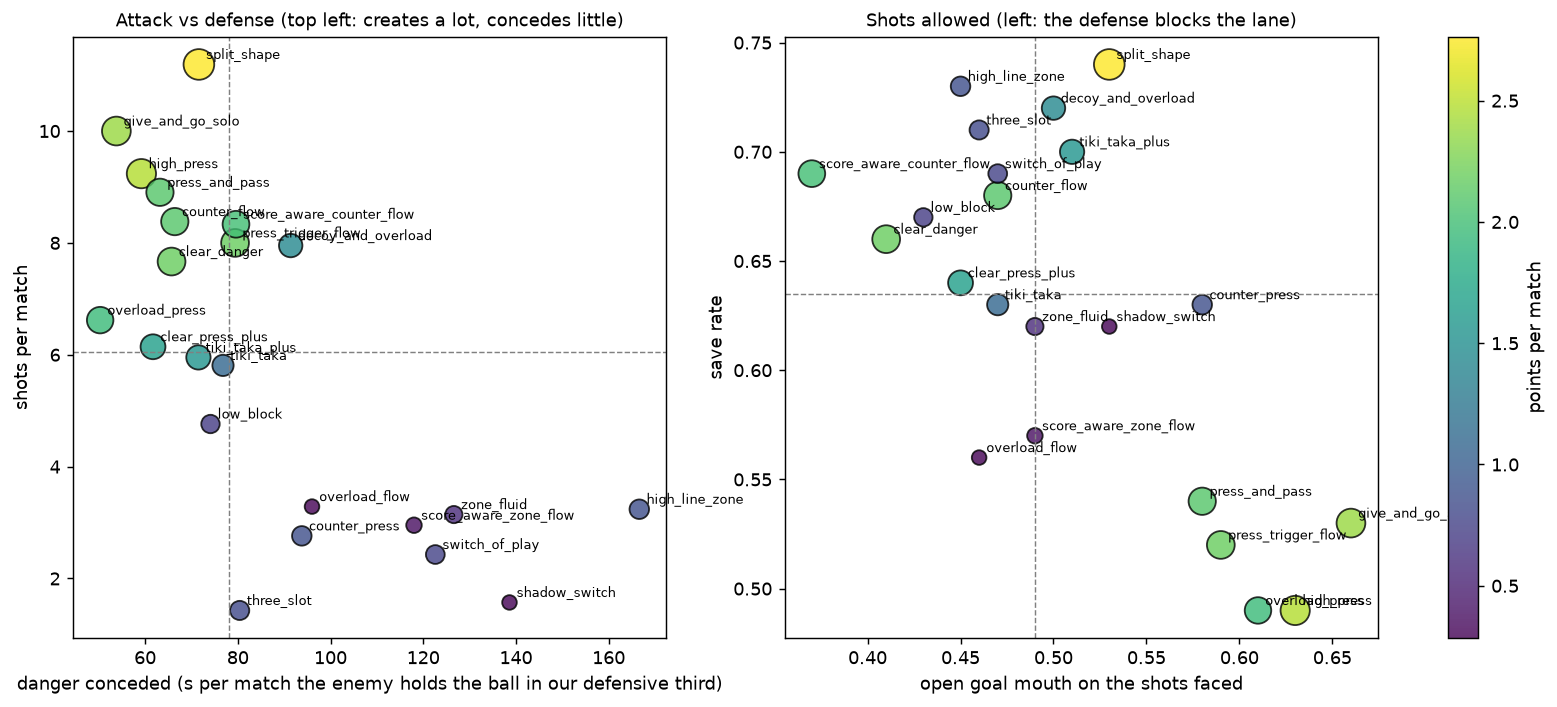
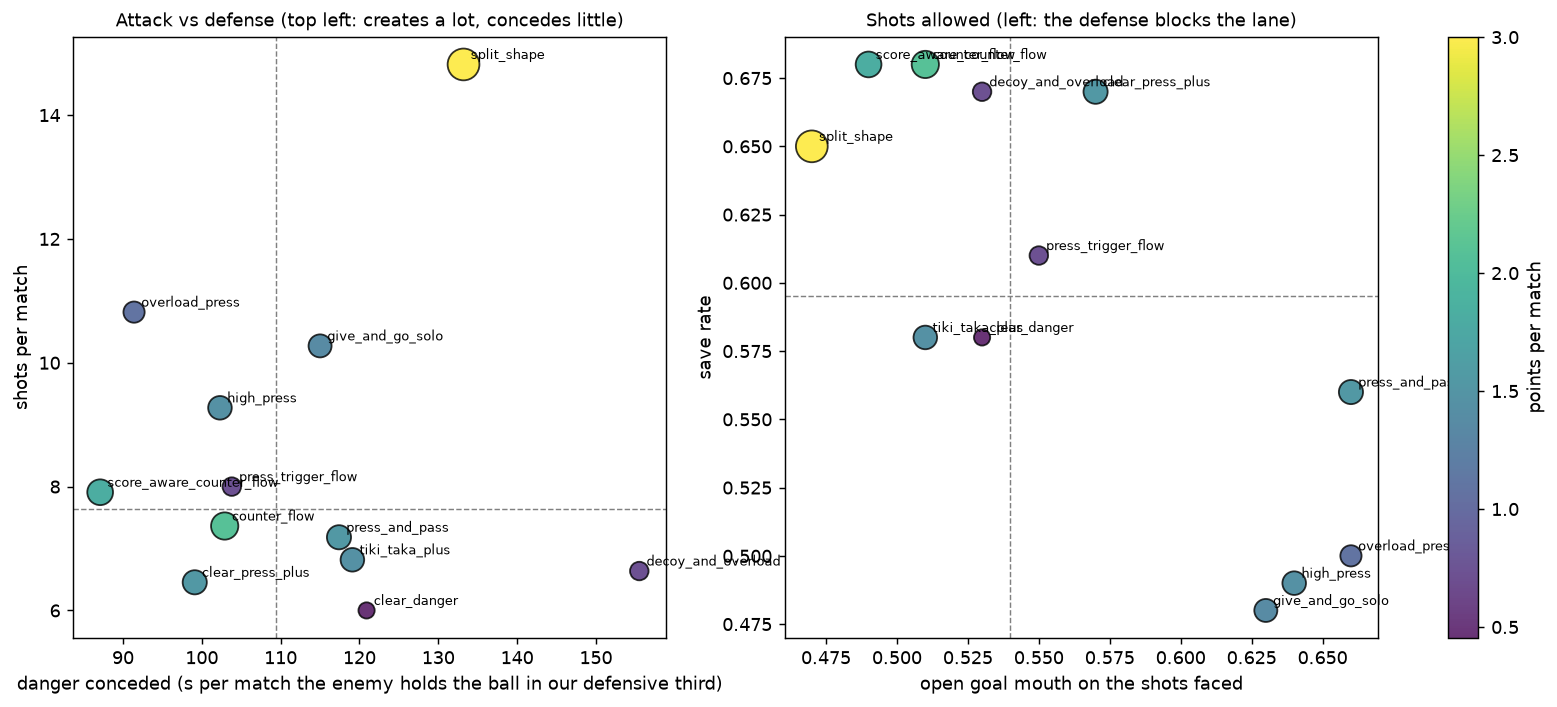
strategies.md, signal_report.md: the 2026-10-10 round-robin of the 12 kept strategies
Claude-Session: https://claude.ai/code/session_019xiBYH9evM56f9477FZGJ4

diff --git a/docs/signal_report.md b/docs/signal_report.md
@@ -3,8 +3,8 @@
 What each strategy does well and badly, from the signals in [`signals.md`](signals.md), drawn
 from one round-robin. Standings are in [`strategies.md`](strategies.md); this shows why.
 
-**Run:** `tournament_20261005_170958` (strategy-guard at `b26f5b37`, 22 configs, 231 matches of
-600 s). Regenerate the figures after a new full round-robin, then rewrite the notes:
+**Run:** `tournament_20261010_090819` (strategy-guard at `a17e2791`, the 12 non-retired configs,
+66 matches of 600 s). Regenerate the figures after a new full round-robin, then rewrite the notes:
 
     pixi run python tools/signal_report.py replays/tournament_<id>
 
@@ -16,71 +16,74 @@ away.
 ![Signals per strategy](img/signals/signal_heatmap.png)
 
 Rows by points per match (the number after each name). Each column is coloured by rank among the
-22 strategies, green where the value usually helps; passes are blue because more is neither
+12 strategies, green where the value usually helps; passes are blue because more is neither
 better nor worse. The printed number is the real value: per match, or a share.
 
-- **`split_shape` is green across attack**: most shots and entries, a shot after 28% of its
-  regains (2.0 s on average) and after 38% of its free kicks, 1.7 m gained per pass. It makes the
-  fewest passes (15) and creates the most.
-- **The next three win by pressing, not passing.** `high_press`, `give_and_go_solo` and
-  `press_and_pass` shoot often after regains, but `high_press` and `press_and_pass` gain under
-  0.5 m per pass, and all three face the most open shots and save about half. Their defense is
-  where they'd gain.
-- **`overload_press` passes the most (61) for the least progress (0.31 m)** and played in 5 of
-  the 10 stalled matches: a winning record with a bug in it.
-- **The bottom half rarely gets a shot.** `counter_press`, `switch_of_play`, `shadow_switch` and
-  `high_line_zone` turn 1–7% of regains into a shot, almost never a free kick, and shoot from
-  3 m. Their shots are open (63–68%) and convert well; they just don't get many.
-- **`three_slot` enters the final third 15 times a match and shoots 1.4 times**, and commits
-  22 out-of-bounds fouls: it gets there and kicks the ball out.
+- **`split_shape` is green across attack**: most shots (14.8) and entries (22.5), a shot after
+  20% of its regains (1.9 s on average) and after 59% of its free kicks, 1.74 m gained per pass
+  from the fewest passes (18). Its weak side is defense: 133 s a match of danger conceded, second
+  most, and the most real ball losses (63).
+- **`counter_flow` and `score_aware_counter_flow` win by conceding little**: the fewest goals
+  against (2.2) and the least danger (103 and 87 s), with few shots of their own.
+- **The pressers shoot a lot and still lose.** `high_press`, `give_and_go_solo` and
+  `overload_press` make 9–11 shots a match, but concede 4.3–4.6 goals: the shots they face are
+  open (63–66%) and they save half.
+- **`press_and_pass` passes for nothing**: 50 passes, 0.34 m gained each, 13% forward.
+- **`decoy_and_overload` gains ground passing (1.07 m, 36% forward) and concedes the most**:
+  5.0 goals and 156 s of danger a match.
+- **`clear_danger` is last with no red flag in defense**: it shoots least (6.0), from furthest
+  (2.7 m), at the least open goal (52%). It defends adequately and doesn't create.
 
 ## Attack against defense
 
 ![Attack vs defense](img/signals/attack_defense.png)
 
 Left: shots created against seconds the enemy holds the ball in the strategy's defensive third.
-Every strategy that wins is in the top left; the ones that lose sit below six shots, most of them
-also spending 90+ s a match defending. `high_line_zone` is the extreme: 167 s.
+Only `split_shape` creates far more than the rest; it does so while conceding more danger than
+most. `overload_press` creates 10.8 shots while conceding the second least danger (91 s), yet
+finishes ninth: its losses are in the right panel.
 
 Right: how open the shots a strategy faces are, against its save rate. Every strategy fields the
-same keeper, so this is the defense in front of it. The pressing winners (`high_press`,
-`overload_press`, `give_and_go_solo`, `press_trigger_flow`, `press_and_pass`) are bottom right:
-they leave the lane open and concede half their shots faced. `counter_flow`, `clear_danger` and
-`score_aware_counter_flow` win with a defense that blocks (37–47% open); `split_shape` faces
-fairly open shots (53%) but few of them, and saves 74%.
+same keeper, so this is the defense in front of it. The pressers (`high_press`, `overload_press`,
+`give_and_go_solo`, `press_and_pass`) are bottom right: they leave the lane open (63–66%) and
+save about half. `split_shape`, `counter_flow` and `score_aware_counter_flow` are top left: the
+lane is blocked (47–51%) and the keeper saves 65–68%.
 
 ## What makes a shot score
 
 ![Goals per shot by distance and open goal](img/signals/shot_quality.png)
 
-All 2725 shots of the run. Inside 2 m with at least half the goal open, 81–96% score; past 3.5 m, or
-with under a quarter of the goal open, at most 16% do. So shot distance and open goal mouth measure
-chance quality, and a strategy's conversion follows from where it shoots, not from luck. Every
-shot here is already on target (`MatchStats`' detector), which is why the rates are high.
+All 1117 shots of the run. Inside 1.5 m with three quarters of the goal open, 89% score; with
+under a quarter open, at most 18% do at any distance, and past 3.5 m at most 14%. So shot distance
+and open goal mouth measure chance quality, and a strategy's conversion follows from where it
+shoots, not from luck. Every shot here is already on target (`MatchStats`' detector), which is
+why the rates are high.
 
 ## How each strategy loses the ball
 
 ![Ball losses by kind](img/signals/ball_losses.png)
 
 Real ball losses per match (not won back within 1 s), measured as config_a only: `n` is how many
-matches that is, so `tiki_taka_plus` (1), `tiki_taka` (2), `three_slot` (3) and `switch_of_play`
-(4) rest on very little, and `zone_fluid` has none.
+matches that is. In a round-robin config_a is the earlier name, so `split_shape` (1),
+`score_aware_counter_flow` (2) and `press_trigger_flow` (3) rest on very little, and
+`tiki_taka_plus` has none.
 
-- **Being tackled is everyone's largest loss**, worst for `switch_of_play`, `counter_press` and
-  `high_press` (18–24 a match): carrying into pressure.
-- **`three_slot` kicks the ball out 20 times a match**, more than all its other losses together.
+- **Being tackled is everyone's largest loss**, 14–25 a match: carrying into pressure.
+- **`clear_press_plus` kicks the ball out most** (about 11 a match), its second largest loss; it
+  also commits the most out-of-bounds fouls below.
 - Shots saved or blocked are a loss too, so the strategies that shoot most (`split_shape`,
-  `press_trigger_flow`) lose more that way; that one is a cost of attacking.
+  `give_and_go_solo`, `overload_press`) lose more that way; that one is a cost of attacking.
 
 ## Fouls and stalls
 
 ![Fouls by rule](img/signals/fouls.png)
 
 Fouls per match by the offending strategy, colour scaled per column, and the stalled matches it
-played in (each stall counts for both teams).
+played in (each stall counts for both teams). No match stalled in this run.
 
-- Out of bounds is the most common foul everywhere; `three_slot` (21.9) is the outlier.
-- `low_block` dribbles too far (4.1 a match) and `overload_press` does too (2.8); `shadow_switch`
-  enters the defense area (3.3).
-- `overload_press` was in 5 stalled matches, the most; rerun them with `round_robin.py --pair`
-  to see why before trusting its rank.
+- Out of bounds is the most common foul everywhere; `clear_press_plus` (11.5) and `clear_danger`
+  (9.3), the two with a clearance valve, are the outliers.
+- `overload_press` (3.2) and `decoy_and_overload` (2.2) dribble too far: both run
+  `DecoyOverloadTactic`.
+- `counter_flow` (2.0) and `score_aware_counter_flow` (1.7) enter the defense area most, and
+  `split_shape` crashes into robots most (1.4).

diff --git a/docs/strategies.md b/docs/strategies.md
@@ -15,23 +15,23 @@ Run:
 rsim is deterministic: re-running an identical pair gives an identical result. Variance comes
 only from `--both-sides`, side/kickoff cells, or `--fuzz-restarts`.
 
-**In the round-robin**, in order of the 2026-10-05 standings (below). A round-robin or a
+**In the round-robin**, in order of the 2026-10-10 standings (below). A round-robin or a
 ladder with no strategies named plays these.
 
 | Strategy | Description |
 |---|---|
 | `split_shape` | `LeadAndSupportTactic` + `ShadowAndMarkTactic`, split by possession edge. |
-| `high_press` | Same pair as `press_and_pass`, fixed 80/20 attack-heavy split ignoring possession. |
-| `give_and_go_solo` | Whole pool runs `GiveAndGoTactic`, no defense slot. |
-| `clear_danger` | `counter_flow` postures plus an own-third `ClearBallTactic` danger-clearance valve. |
-| `press_trigger_flow` | `counter_flow`, but an all-in press when the ball is lost in our own third. |
-| `press_and_pass` | `GiveAndGoTactic` + `PressAndContainTactic`, possession-edge split. |
 | `counter_flow` | Give-and-go attack, press on the ball, `BlockShapeTactic` screen; 3/2 with possession hysteresis. |
 | `score_aware_counter_flow` | `counter_flow` plus a late-half scoreline shift (protect a lead / chase). |
-| `overload_press` | 4-robot overload/switch attack + 1 block, built to outnumber tiki_taka's shadow line. |
+| `press_and_pass` | `GiveAndGoTactic` + `PressAndContainTactic`, possession-edge split. |
 | `clear_press_plus` | `clear_danger` plus `tiki_taka_plus`'s final-third overload. |
+| `high_press` | Same pair as `press_and_pass`, fixed 80/20 attack-heavy split ignoring possession. |
 | `tiki_taka_plus` | `tiki_taka`, handing off to `DecoyOverloadTactic`'s duet in the final third. |
+| `give_and_go_solo` | Whole pool runs `GiveAndGoTactic`, no defense slot. |
+| `overload_press` | 4-robot overload/switch attack + 1 block, built to outnumber tiki_taka's shadow line. |
+| `press_trigger_flow` | `counter_flow`, but an all-in press when the ball is lost in our own third. |
 | `decoy_and_overload` | `DecoyOverloadTactic` (min 2) + `ShadowAndMarkTactic`, fixed 50/50. |
+| `clear_danger` | `counter_flow` postures plus an own-third `ClearBallTactic` danger-clearance valve. |
 
 **Retired** (2026-10-10): the bottom ten of the 2026-10-05 round-robin. Left out of a round-robin
 or a ladder pool unless named (`RETIRED` in `tools/evaluation/round_robin.py`). Their code stays:
@@ -55,44 +55,29 @@ against the round-robin's top.
 
 ## Latest results
 
-**Round-robin, full catalog** (2026-10-05, strategy-guard at b26f5b37, 22 configs, 231 matches,
-600s, `replays/tournament_20261005_170958/summary.json`). Points are 3 a win, 1 a draw; 33 of 231
-matches were draws. 10 matches stalled (9 committed-frozen, 1 restart stall).
+**Round-robin** (2026-10-10, strategy-guard at a17e2791, the 12 strategies above, 66 matches,
+600 s, `replays/tournament_20261010_090819/summary.json`). Points are 3 a win, 1 a draw; 8 of 66
+matches were draws. No match stalled; 99% of 1802 restarts reached NORMAL_START.
 
-Against the previous run (tournament_20261004_204810, same configs, before this PR's referee and
-tactic fixes): goal-line exits now restart in the corner instead of 2 m in front of goal,
-`no_progress` restarts fell from 699 to 296 and keep-out fouls from 245 to 26, and
-`split_shape`'s lead over second place fell from 0.52 to 0.28 points per match.
-Out-of-bounds restarts rose from 2446 to 2938: a goal kick from the corner was cleared at full
-power over the far goal line, giving the other side a goal kick at its corner (388 of 1377 goal
-kicks were followed by one at the other end, median 4 s). The aimless-kick rule (§6.2.3, added
-after this run) makes such a clearance a free kick at the kick point. What each strategy does
-well and badly in this run, in figures: [`signal_report.md`](signal_report.md).
+Against the 2026-10-05 run: the retired ten are gone from the pool, so every strategy's record is
+now against the top 12 only; the teams change ends at half-time; and an aimless clearance is a free
+kick at the kick point. `split_shape` won all 11; `clear_danger`, fourth before, is last.
+What each strategy does well and badly in this run, in figures: [`signal_report.md`](signal_report.md).
 
 | Strategy | W-D-L | GF-GA | Points per match |
 |---|---|---|---|
-| `split_shape` | 19-1-1 | 103-23 | 2.76 |
-| `high_press` | 17-1-3 | 89-40 | 2.48 |
-| `give_and_go_solo` | 16-2-3 | 84-28 | 2.38 |
-| `clear_danger` | 14-4-3 | 59-28 | 2.19 |
-| `press_trigger_flow` | 15-1-5 | 64-41 | 2.19 |
-| `press_and_pass` | 13-5-3 | 76-29 | 2.10 |
-| `counter_flow` | 14-2-5 | 62-27 | 2.10 |
-| `score_aware_counter_flow` | 13-3-5 | 64-29 | 2.00 |
-| `overload_press` | 13-2-6 | 55-40 | 1.95 |
-| `clear_press_plus` | 10-5-6 | 51-30 | 1.67 |
-| `tiki_taka_plus` | 9-6-6 | 48-32 | 1.57 |
-| `decoy_and_overload` | 10-0-11 | 59-52 | 1.43 |
-| `tiki_taka` | 6-5-10 | 34-41 | 1.10 |
-| `high_line_zone` | 5-3-13 | 34-54 | 0.86 |
-| `counter_press` | 5-3-13 | 35-69 | 0.86 |
-| `three_slot` | 3-8-10 | 10-33 | 0.81 |
-| `switch_of_play` | 4-4-13 | 23-58 | 0.76 |
-| `low_block` | 4-3-14 | 21-40 | 0.71 |
-| `zone_fluid` | 3-3-15 | 33-77 | 0.57 |
-| `score_aware_zone_flow` | 2-2-17 | 24-84 | 0.38 |
-| `overload_flow` | 1-3-17 | 21-91 | 0.29 |
-| `shadow_switch` | 2-0-19 | 19-122 | 0.29 |
+| `split_shape` | 11-0-0 | 80-26 | 3.00 |
+| `counter_flow` | 7-2-2 | 35-24 | 2.09 |
+| `score_aware_counter_flow` | 6-2-3 | 32-24 | 1.82 |
+| `press_and_pass` | 5-2-4 | 40-35 | 1.55 |
+| `clear_press_plus` | 5-2-4 | 34-31 | 1.55 |
+| `high_press` | 5-1-5 | 36-47 | 1.45 |
+| `tiki_taka_plus` | 5-1-5 | 33-48 | 1.45 |
+| `give_and_go_solo` | 5-0-6 | 44-51 | 1.36 |
+| `overload_press` | 4-0-7 | 52-51 | 1.09 |
+| `press_trigger_flow` | 2-2-7 | 26-35 | 0.73 |
+| `decoy_and_overload` | 2-2-7 | 38-55 | 0.73 |
+| `clear_danger` | 1-2-8 | 21-44 | 0.45 |
 
 ## Known open bugs
 
